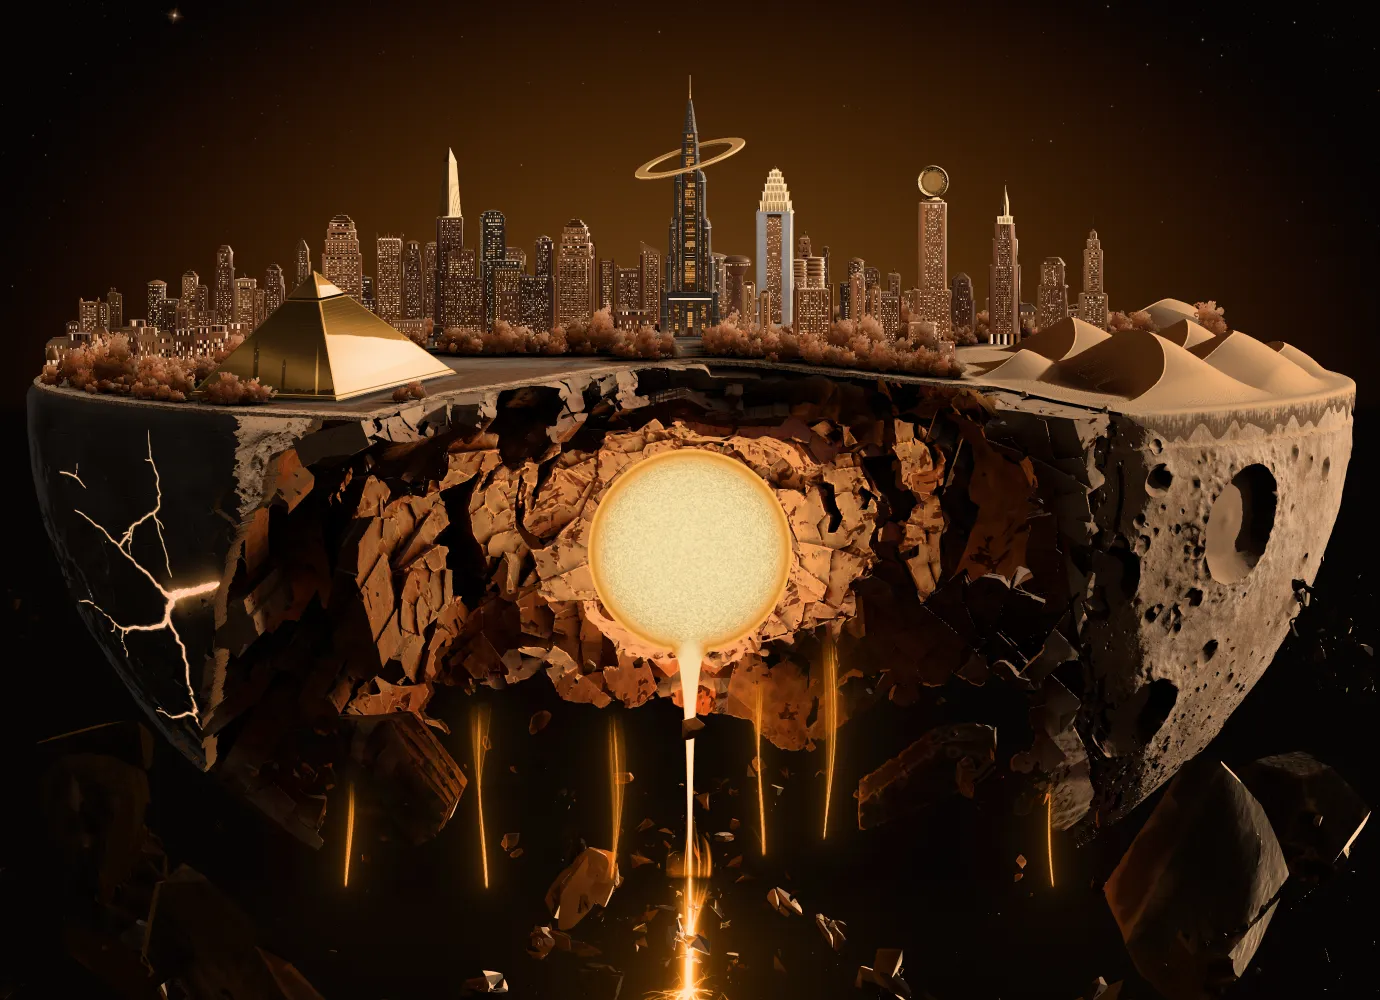
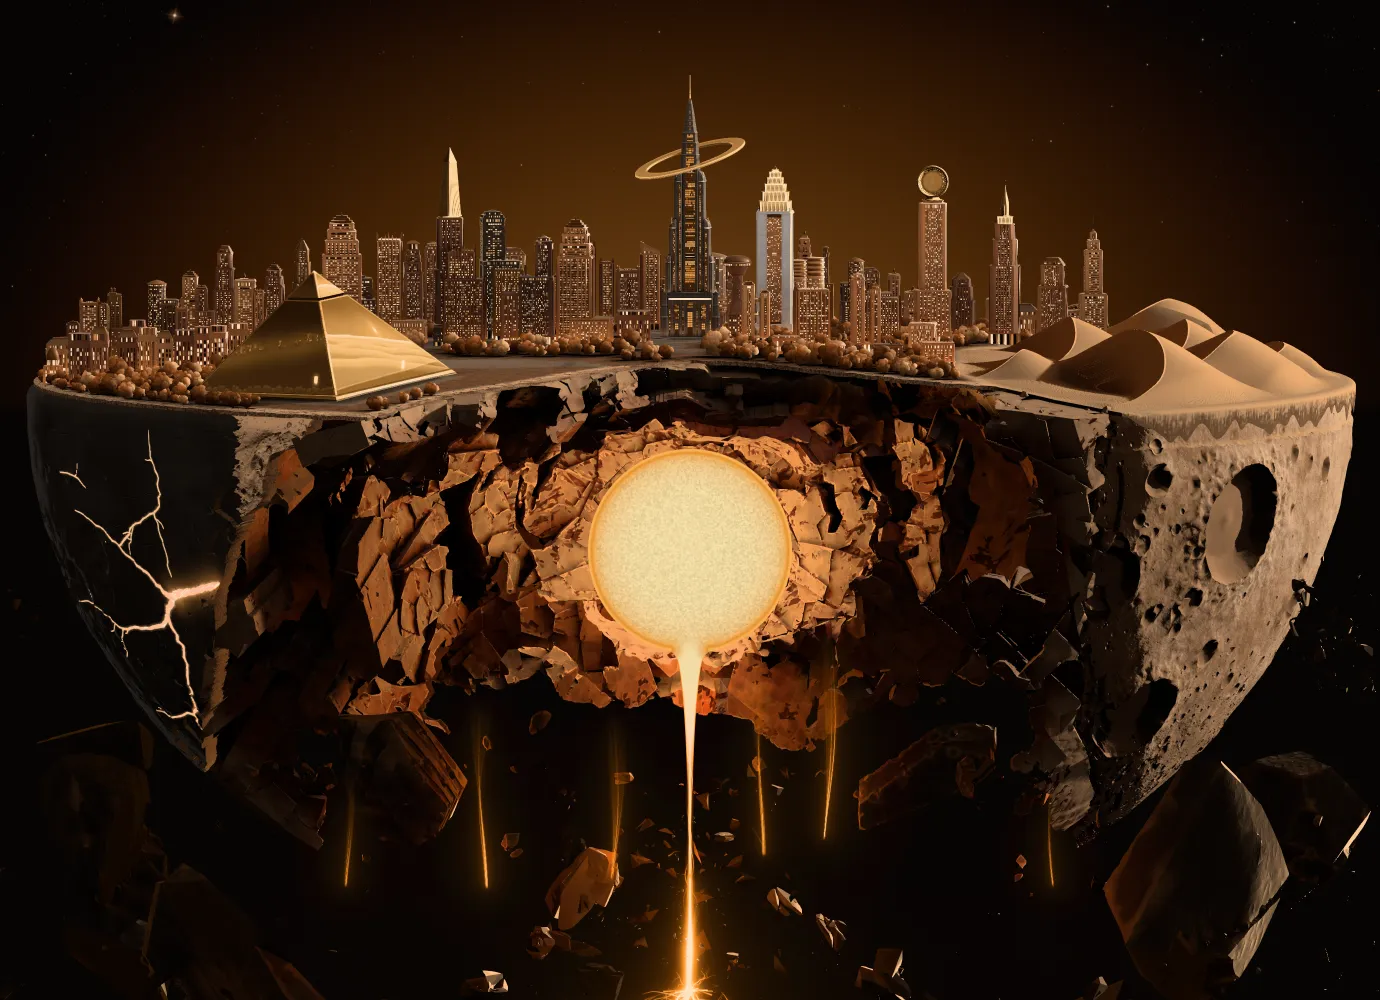
The world's pixels on an iPad set to the middle, and the stills taken again
Measured again on a quieter machine, the sharper world cost about 190 MB
in WebKit and not the 9 first read: 1319 MB for the hero where it was
1128. At 1.8 million pixels it is still drawn at over one pixel to a CSS
pixel. The stills are from the production build of this state.

diff --git a/src/config/site.ts b/src/config/site.ts
@@ -22,10 +22,11 @@ export const PIECE_MOUNT = { near: 1, far: 2.5, max: 6, fade: 260 } as const;
 export const HANDHELD = {
   // The most pixels a 3D canvas has, and a canvas as large as the screen (the stream, the sky).
   piece: 1.6e6,
-  // The hero's world, whose canvas is the tallest on the site: as many as a canvas the size of the screen gets.
-  // At 1.1 million (tried Nov 16 for the 60 MB it saved) an iPad drew the world at under one pixel to a CSS
-  // pixel, and the city's windows were smears: the first thing he would see on the device he tests on.
-  world: 2.4e6,
+  // The hero's world, whose canvas is the tallest on the site. Measured in WebKit on Nov 16, the hero held 1128 MB
+  // of GPU at 1.1 million pixels and 1319 at 2.4 million: about 150 MB for each million. At 1.1 million an iPad
+  // drew the world at under one pixel to a CSS pixel and the city's windows were smears, the first thing he would
+  // see on the device he tests on. This is the middle: a little over one pixel to a CSS pixel.
+  world: 1.8e6,
   screen: 2.4e6,
   // The longest side of the cursor light's shadow map, and of any other light's.
   shadow: { lamp: 1024, most: 2048 },
